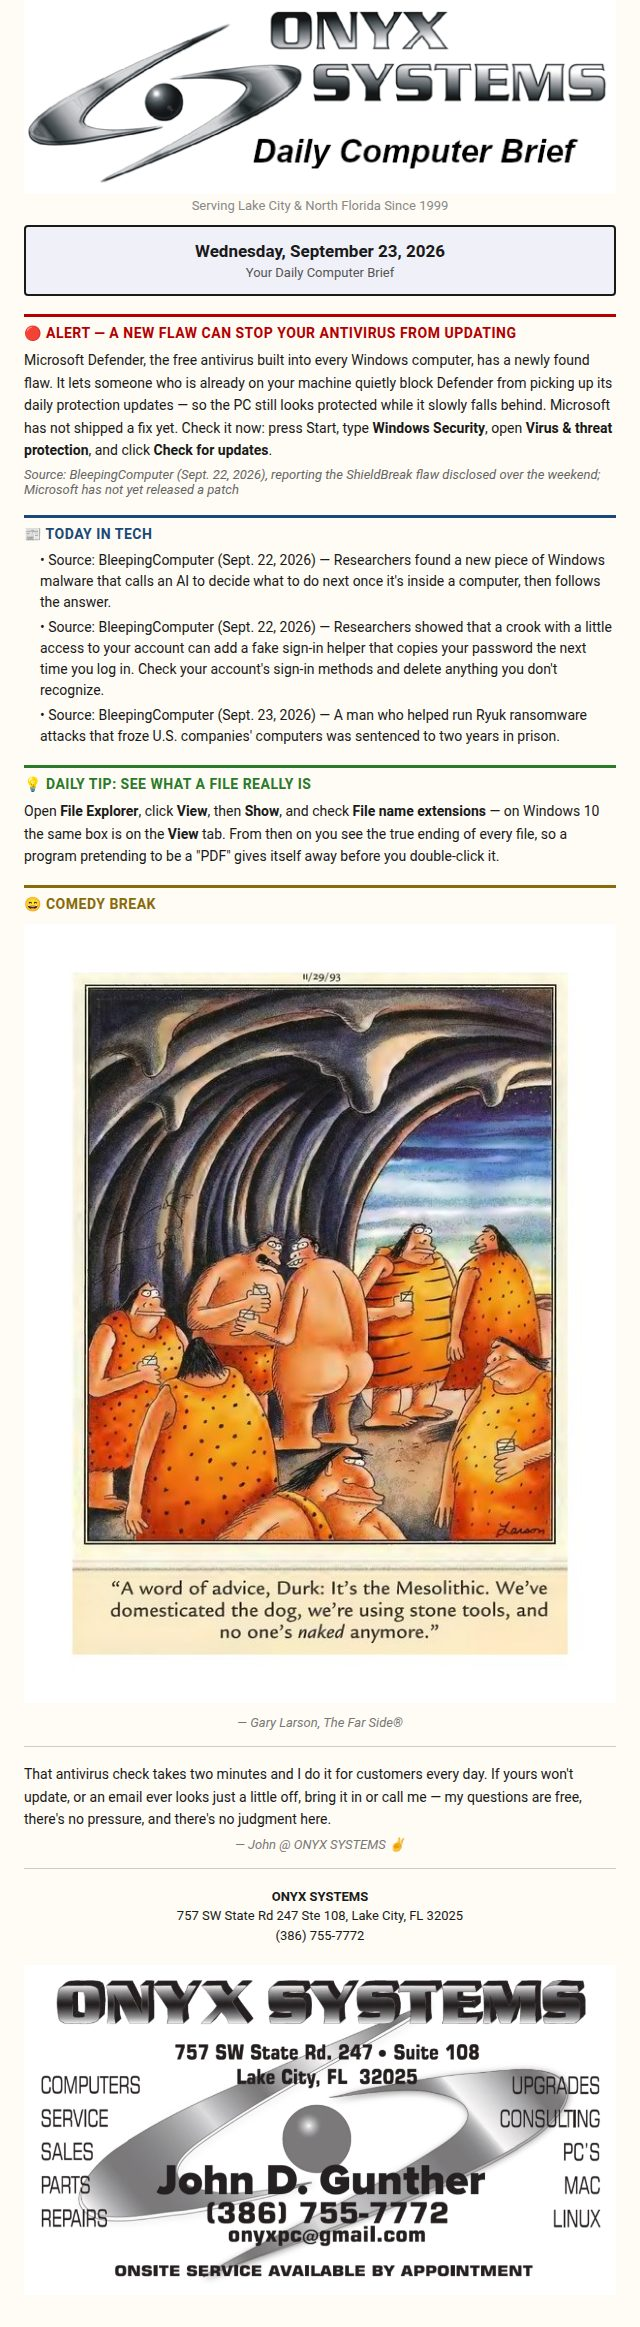
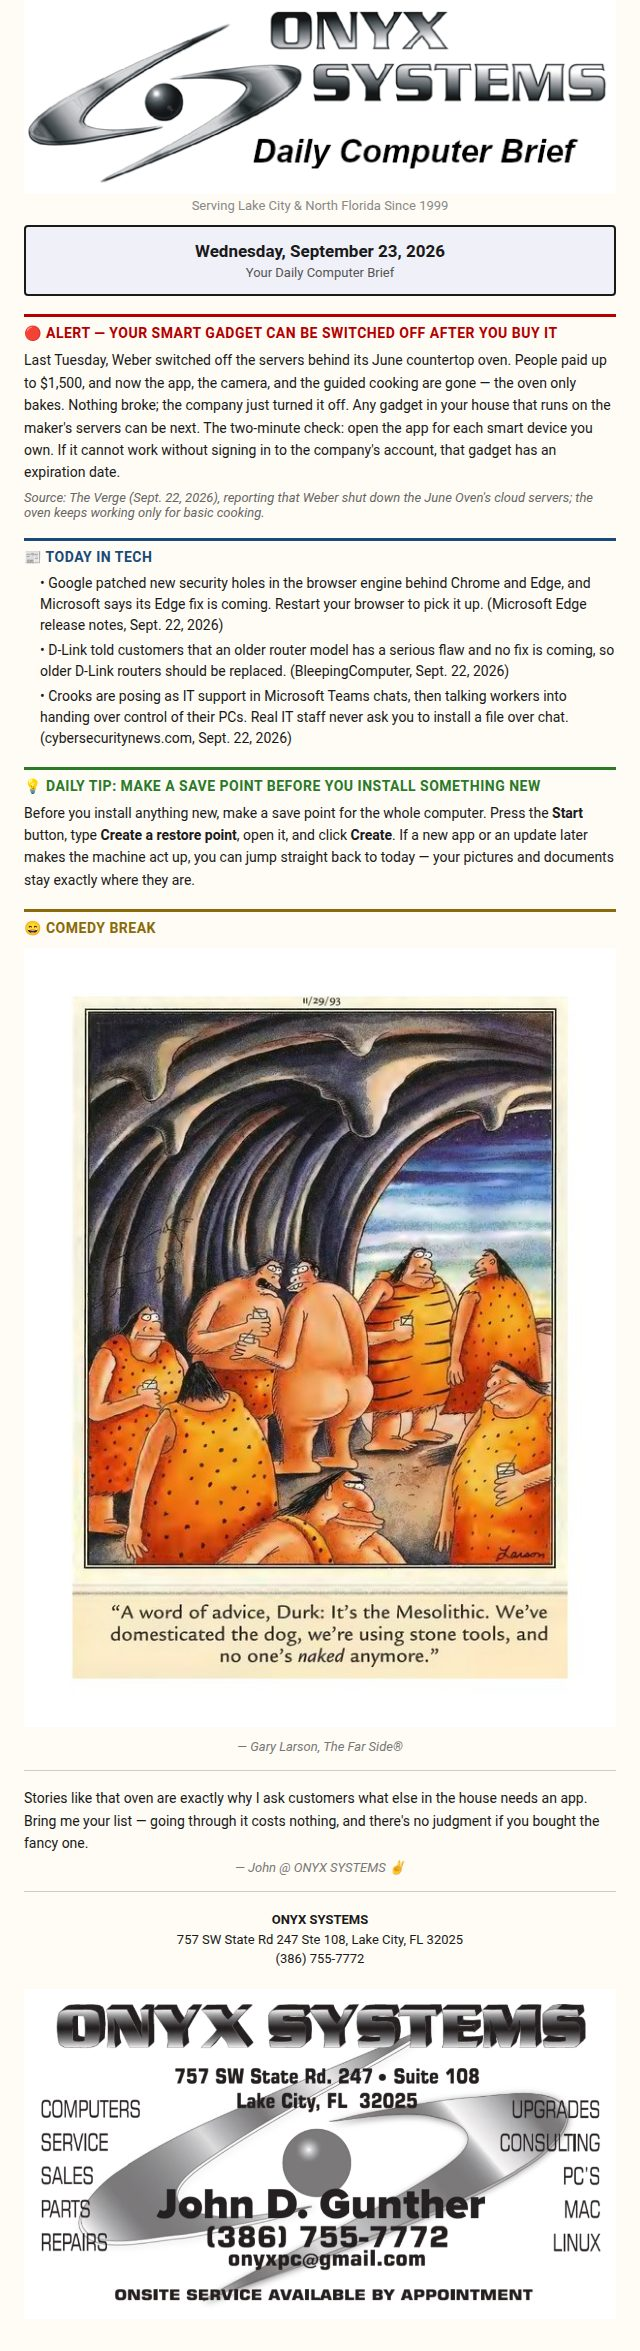
daily: 2026-09-23 brief + news/tips + widgets (+ build stamp)

diff --git a/newsletter.html b/newsletter.html
@@ -44,20 +44,20 @@
   <h1>Your Daily Computer Brief</h1>
   <div class="section alert">
     <h2>🔴 ALERT</h2>
-    <p>Microsoft Defender, the free antivirus built into every Windows computer, has a newly found flaw. It lets someone who is already on your machine quietly block Defender from picking up its daily protection updates — so the PC still looks protected while it slowly falls behind. Microsoft has not shipped a fix yet. Check it now: press Start, type **Windows Security**, open **Virus & threat protection**, and click **Check for updates**.
-*Source: BleepingComputer (Sept. 22, 2026), reporting the ShieldBreak flaw disclosed over the weekend; Microsoft has not yet released a patch*</p>
+    <p>Last Tuesday, Weber switched off the servers behind its June countertop oven. People paid up to $1,500, and now the app, the camera, and the guided cooking are gone — the oven only bakes. Nothing broke; the company just turned it off. Any gadget in your house that runs on the maker's servers can be next. The two-minute check: open the app for each smart device you own. If it cannot work without signing in to the company's account, that gadget has an expiration date.
+*Source: The Verge (Sept. 22, 2026), reporting that Weber shut down the June Oven's cloud servers; the oven keeps working only for basic cooking.*</p>
   </div>
   <div class="section">
     <h2>Today in Tech</h2>
     <ul>
-      <li>Source: BleepingComputer (Sept. 22, 2026) — Researchers found a new piece of Windows malware that calls an AI to decide what to do next once it's inside a computer, then follows the answer.</li>
-      <li>Source: BleepingComputer (Sept. 22, 2026) — Researchers showed that a crook with a little access to your account can add a fake sign-in helper that copies your password the next time you log in. Check your account's sign-in methods and delete anything you don't recognize.</li>
-      <li>Source: BleepingComputer (Sept. 23, 2026) — A man who helped run Ryuk ransomware attacks that froze U.S. companies' computers was sentenced to two years in prison.</li>
+      <li>Google patched new security holes in the browser engine behind Chrome and Edge, and Microsoft says its Edge fix is coming. Restart your browser to pick it up. (Microsoft Edge release notes, Sept. 22, 2026)</li>
+      <li>D-Link told customers that an older router model has a serious flaw and no fix is coming, so older D-Link routers should be replaced. (BleepingComputer, Sept. 22, 2026)</li>
+      <li>Crooks are posing as IT support in Microsoft Teams chats, then talking workers into handing over control of their PCs. Real IT staff never ask you to install a file over chat. (cybersecuritynews.com, Sept. 22, 2026)</li>
     </ul>
   </div>
   <div class="section tip">
     <h2>Daily Tip</h2>
-    <p>Open **File Explorer**, click **View**, then **Show**, and check **File name extensions** — on Windows 10 the same box is on the **View** tab. From then on you see the true ending of every file, so a program pretending to be a "PDF" gives itself away before you double-click it.</p>
+    <p>Before you install anything new, make a save point for the whole computer. Press the **Start** button, type **Create a restore point**, open it, and click **Create**. If a new app or an update later makes the machine act up, you can jump straight back to today — your pictures and documents stay exactly where they are.</p>
   </div>
   <div class="section">
     <h2>😄 COMEDY BREAK</h2>

diff --git a/verify_feed_complete.py b/verify_feed_complete.py
@@ -156,6 +156,11 @@ KNOWN_PRODUCTS = [
     # web address into the search box at camelcamelcamel.com). Added while selecting
     # the day's computer-only notes over the phone-centric default extraction.
     "camelcamelcamel", "the camelizer",
+    # Extended 2026-09-23: Weber / June Oven (the $1,500 countertop oven whose cloud
+    # servers Weber switched off) — real named brand/product in today's Daily Brief
+    # alert headline; the alert states the obtain/check method (open each smart
+    # device's app and confirm it works without the maker's account).
+    "weber", "june oven",
 ]
 
 # Jargon / Grandma Test signals — forbidden in customer-facing text
